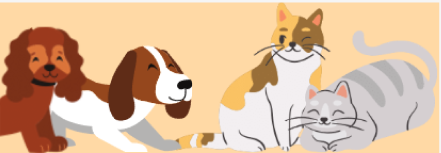
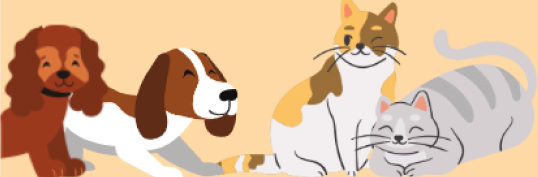
commit

diff --git a/lib/pages/reset-password.dart b/lib/pages/reset-password.dart
@@ -7,7 +7,7 @@ class ResetPasswordPage extends StatelessWidget {
   Widget build(BuildContext context) {
     return Scaffold(
       appBar: AppBar(
-        backgroundColor: Colors.white,
+        backgroundColor: const Color(0xFFFFE0B2),
         automaticallyImplyLeading: true,
         leading: IconButton(
           icon: const Icon(Icons.arrow_back),
@@ -16,8 +16,14 @@ class ResetPasswordPage extends StatelessWidget {
         ),
       ),
       body: Container(
-        padding: const EdgeInsets.only(top: 60, left: 40, right: 40),
-        color: Colors.white,
+          decoration: const BoxDecoration(
+            gradient: LinearGradient(colors: [
+              Color(0xFFFFFFFF),
+              Color(0xFFFFFFFF),
+              Color(0xFFFFE0B2),
+            ], begin: Alignment.topCenter, end: Alignment.bottomCenter),
+          ),
+          padding: const EdgeInsets.only(top: 40, left: 40, right: 40),
         child: ListView(
           children: <Widget>[
             Column(
@@ -28,93 +34,91 @@ class ResetPasswordPage extends StatelessWidget {
                     SizedBox(
                       width: 200,
                       height: 200,
-                      child: Image.asset("assets/reset-password-icon.png"),
-                    ),
-                    const SizedBox(
-                      height: 20,
+                      child: Image.asset("assets/miaudote.png"),
                     ),
                     const Text(
-                      "Esqueceu sua senha?",
-                      style: TextStyle(
-                        fontSize: 32,
-                        fontWeight: FontWeight.w500,
-                      ),
-                    ),
-                    const SizedBox(
-                      height: 10,
-                    ),
-                    const Text(
-                      "Por favor, informe o E-mail associado a sua conta que enviaremos um link para o mesmo com as instruções para restauração de sua senha.",
+                      "Vamos precisar de um código de validação que será enviado por e-mail, ok?",
                       style: TextStyle(
                         fontSize: 16,
                         fontWeight: FontWeight.w400,
                       ),
                       textAlign: TextAlign.center,
-                    )
-                  ],
-                ),
-                SizedBox(
-                  width: double.infinity,
-                  child: Column(
-                    children: <Widget>[
-                      TextFormField(
-                        keyboardType: TextInputType.emailAddress,
-                        decoration: const InputDecoration(
-                          labelText: "E-mail",
-                          labelStyle: TextStyle(
-                            color: Colors.black38,
-                            fontWeight: FontWeight.w400,
-                            fontSize: 20,
+                    ),
+                  SizedBox(
+                    width: double.infinity,
+                    child: Column(
+                      children: <Widget>[
+                        TextFormField(
+                          keyboardType: TextInputType.emailAddress,
+                          decoration: const InputDecoration(
+                            labelText: "E-mail",
+                            labelStyle: TextStyle(
+                              color: Colors.black38,
+                              fontWeight: FontWeight.w400,
+                              fontSize: 20,
+                            ),
                           ),
+                          style: TextStyle(fontSize: 20),
+                        )
+                        ],
+                      ),
+                  ),
+                const SizedBox(
+                  height: 80,
+                ),
+                SizedBox.fromSize(
+                  child: UnconstrainedBox(
+                    child: Container(
+                      width: 300,
+                      height: 70,
+                      decoration: const BoxDecoration(
+                        color: Color.fromRGBO(241, 138, 82, 100),
+                        borderRadius: BorderRadius.all(
+                          Radius.circular(30),
                         ),
-                        style: TextStyle(fontSize: 20),
                       ),
-                      const SizedBox(
-                        height: 20,
-                      ),
-                      Container(
-                        height: 60,
-                        alignment: Alignment.centerLeft,
-                        decoration: const BoxDecoration(
-                          gradient: LinearGradient(
-                            begin: Alignment.topLeft,
-                            end: Alignment.bottomRight,
-                            stops: [0.3, 1],
-                            colors: [
-                              Color(0xFFF58524),
-                              Color(0XFFF92B7F),
+                      child: SizedBox(
+                        child: TextButton(
+                          child: Row(
+                            mainAxisAlignment: MainAxisAlignment.center,
+                            children: const <Widget>[
+                              Text(
+                                "Enviar código",
+                                style: TextStyle(
+                                  fontWeight: FontWeight.bold,
+                                  color: Colors.white,
+                                  fontSize: 20,
+                                ),
+                              ),
                             ],
                           ),
-                          borderRadius: BorderRadius.all(
-                            Radius.circular(5),
-                          ),
-                        ),
-                        child: SizedBox.expand(
-                          child: TextButton(
-                            child: const Text(
-                              "Enviar",
-                              style: TextStyle(
-                                fontWeight: FontWeight.bold,
-                                color: Colors.white,
-                                fontSize: 20,
-                              ),
-                              textAlign: TextAlign.center,
-                            ),
-                            onPressed: () {},
-                          ),
+                            onPressed: () {
+                              Navigator.pushNamed(context, '/passwordcode');
+                      },
                         ),
                       ),
-                      const SizedBox(
-                        height: 20,
-                      ),
-                    ],
+
                   ),
                 )
-              ],
-            )
+            ),
+                Stack(
+                  children: <Widget>[
+                    Container(
+                      width: 400,
+                      height: 200,
+                      child:const Image(
+                        image:AssetImage('assets/rodape.png') as ImageProvider
+                      ),
+                    ),
+                  ],
+                )
           ],
         ),
-      ),
+              ],
+      )
+]
+    ),
+    ),
     );
   }
 }

diff --git a/lib/pages/password.code.dart b/lib/pages/password.code.dart
@@ -1,0 +1,125 @@
+import 'package:flutter/material.dart';
+
+class PasswordCodePage extends StatelessWidget {
+  const PasswordCodePage({super.key});
+
+  @override
+  Widget build(BuildContext context) {
+    return Scaffold(
+      appBar: AppBar(
+        backgroundColor: const Color(0xFFFFE0B2),
+        automaticallyImplyLeading: true,
+        leading: IconButton(
+          icon: const Icon(Icons.arrow_back),
+          color: Colors.black38,
+          onPressed: () => Navigator.pop(context, false),
+        ),
+      ),
+      body: Container(
+          decoration: const BoxDecoration(
+            gradient: LinearGradient(colors: [
+              Color(0xFFFFFFFF),
+              Color(0xFFFFFFFF),
+              Color(0xFFFFE0B2),
+            ], begin: Alignment.topCenter, end: Alignment.bottomCenter),
+          ),
+          padding: const EdgeInsets.only(top: 40, left: 40, right: 40),
+          child: ListView(
+            children: <Widget>[
+              Column(
+                mainAxisAlignment: MainAxisAlignment.spaceBetween,
+                children: <Widget>[
+                  Column(
+                    children: <Widget>[
+                      SizedBox(
+                        width: 200,
+                        height: 200,
+                        child: Image.asset("assets/miaudote.png"),
+                      ),
+                      const Text(
+                        "Insira aqui o seu código",
+                        style: TextStyle(
+                          fontSize: 16,
+                          fontWeight: FontWeight.w400,
+                        ),
+                        textAlign: TextAlign.center,
+                      )
+                    ],
+                  ),
+                  SizedBox(
+                    width: double.infinity,
+                    child: Column(
+                      children: <Widget>[
+                        TextFormField(
+                          keyboardType: TextInputType.number,
+                          decoration: const InputDecoration(
+                            labelText: "código",
+                            labelStyle: TextStyle(
+                              color: Colors.black38,
+                              fontWeight: FontWeight.w400,
+                              fontSize: 20,
+                            ),
+                          ),
+                          style: TextStyle(fontSize: 20),
+                        )
+                      ],
+                    ),
+                  ),
+                  const SizedBox(
+                    height: 80,
+                  ),
+                  SizedBox.fromSize(
+                      child: UnconstrainedBox(
+                        child: Container(
+                          width: 200,
+                          height: 70,
+                          decoration: const BoxDecoration(
+                            color: Color.fromRGBO(241, 138, 82, 100),
+                            borderRadius: BorderRadius.all(
+                              Radius.circular(30),
+                            ),
+                          ),
+                          child: SizedBox(
+                            child: TextButton(
+                              child: Row(
+                                mainAxisAlignment: MainAxisAlignment.center,
+                                children: const <Widget>[
+                                  Text(
+                                    "Enviar código",
+                                    style: TextStyle(
+                                      fontWeight: FontWeight.bold,
+                                      color: Colors.white,
+                                      fontSize: 20,
+                                    ),
+                                  ),
+                                ],
+                              ),
+                              onPressed: () {
+                                Navigator.pushNamed(context, '/passwordcode');
+                              },
+                            ),
+                          ),
+
+                        ),
+                      )
+                  ),
+                  Stack(
+                    children: <Widget>[
+                      Container(
+                        width: 400,
+                        height: 200,
+                        child:const Image(
+                            image:AssetImage('assets/rodape.png') as ImageProvider
+                        ),
+                      ),
+                    ],
+                  )
+                ],
+              ),
+            ],
+          )
+
+      ),
+    );
+  }
+}

diff --git a/lib/main.dart b/lib/main.dart
@@ -1,5 +1,6 @@
 import 'package:untitled/pages/homepage.dart';
 import 'package:untitled/pages/login.page.dart';
+import 'package:untitled/pages/password.code.dart';
 import 'package:untitled/pages/reset-password.dart';
 import 'package:flutter/material.dart';
 import 'package:untitled/pages/signup.page.dart';
@@ -24,6 +25,7 @@ class MyApp extends StatelessWidget {
         '/home': (context) => const HomePage(),
         '/resetpassword': (context) => const ResetPasswordPage(),
         '/signup': (context) => const SignupPage(),
+        '/passwordcode': (context) => const PasswordCodePage()
       },
     );
   }
